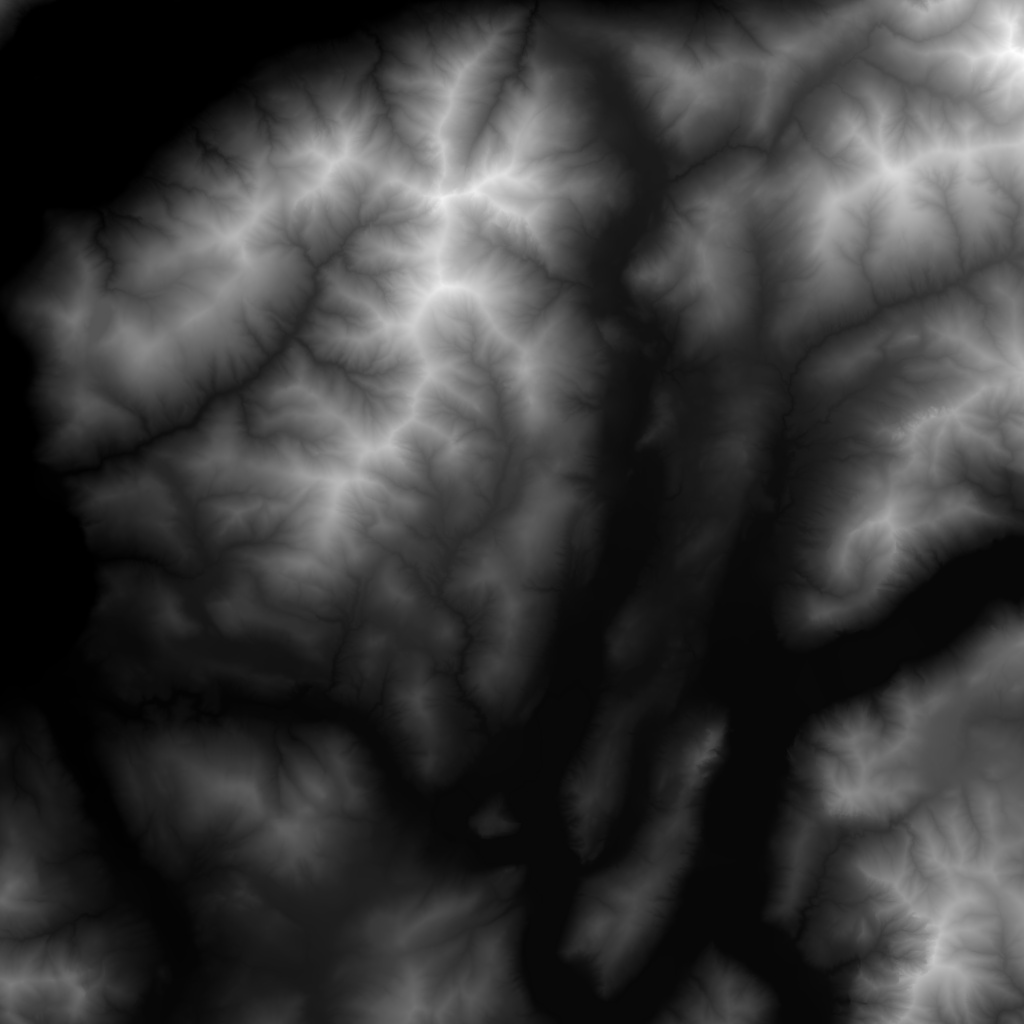
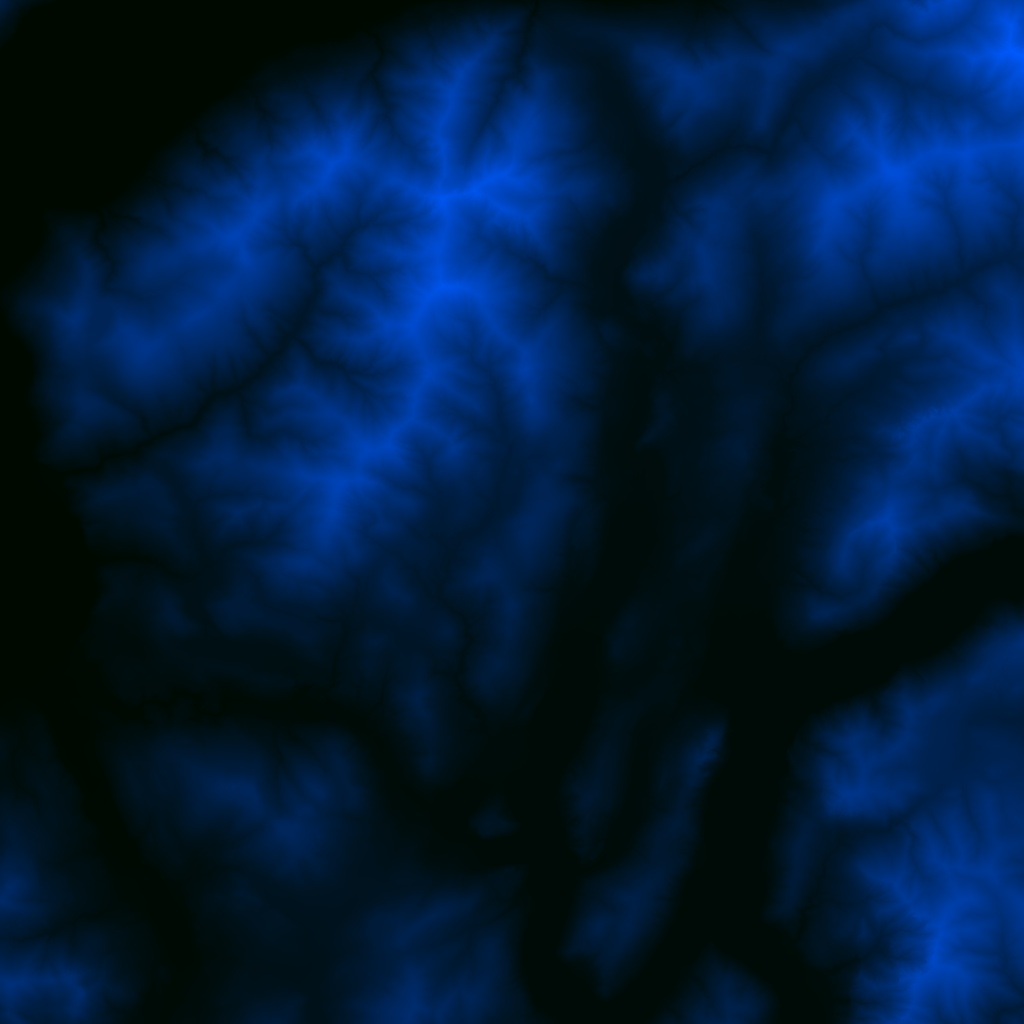
conversion fixed and bonus implemented

diff --git a/assignment_10/assignment 10/assignment 10/template/bonusTemplate.html b/assignment_10/assignment 10/assignment 10/template/bonusTemplate.html
@@ -24,29 +24,43 @@
                     out vec3 v_normal;
                     out float height;
 
+                    float decodeHeight(vec2 encodedValue) {
+                        // Decode the 16-bit value from red and green channels
+                        float red = encodedValue.r * 255.0;
+                        float green = encodedValue.g * 255.0;
+                        return (red + green * 256.0) / 65535.0;
+                    }
+
                     void main() {
                         v_textureCoord = a_position.xz + vec2(0.5);
-                        height = texture(heightmap, v_textureCoord).x;
-                        vec2 level = vec2(20.0)/vec2(textureSize(heightmap, 0));
 
-                        float newY = texture(heightmap, v_textureCoord).y / 3.5;
-                        vec3 position = vec3(a_position.x, newY, a_position.z);
-                        
-                        float x1 = texture(heightmap, v_textureCoord + vec2(level.x, 0.0)).x;
-                        float x2 = texture(heightmap, v_textureCoord - vec2(level.x, 0.0)).x;
-                        float z1 = texture(heightmap, v_textureCoord + vec2(0.0, level.y)).x;
-                        float z2 = texture(heightmap, v_textureCoord - vec2(0.0, level.y)).x;
+                        // Sample the 8-bit 3-channel heightmap
+                        vec3 heightmapSample = texture(heightmap, v_textureCoord).rgb;
 
-                        vec3 tangent = vec3(level.x, 0.0, x1 - x2);
-                        vec3 tanBit = vec3(0.0, level.y, z1 - z2);
+                        // Decode the height from the red and green channels
+                        height = decodeHeight(heightmapSample.rg);
+
+                        vec2 level = vec2(20.0) / vec2(textureSize(heightmap, 0)) * vec2(255.0);
+
+                        float x1 = texture(heightmap, v_textureCoord + vec2(level.x, 0.0)).r * 255.0;
+                        float x2 = texture(heightmap, v_textureCoord - vec2(level.x, 0.0)).r * 255.0;
+                        float z1 = texture(heightmap, v_textureCoord + vec2(0.0, level.y)).r * 255.0;
+                        float z2 = texture(heightmap, v_textureCoord - vec2(0.0, level.y)).r * 255.0;
+
+                        vec3 tangent = vec3(level.x, 0.0, (x1 - x2));
+                        vec3 tanBit = vec3(0.0, level.y, (z1 - z2));
+
                         if (height > 0.055) {
                             v_normal = normalize(cross(tangent, tanBit));
                         } else {
                             v_normal = vec3(0.0, 1.0, 0.0);
                         }
 
+                        vec3 position = vec3(a_position.x, height, a_position.z);
+
                         v_view_direction = -vec3(viewMatrix * modelMatrix * vec4(position, 1.0));
                         v_light_direction = vec3(viewMatrix * vec4(lightDirection, 0.0));
+
                         gl_Position = projectionMatrix * viewMatrix * modelMatrix * vec4(position, 1.0);
                     }`;
 
@@ -379,7 +393,7 @@
 
         // a list of the paths to the files with textures
         // add here the paths to the files from which the textures should be read
-        var textureFiles = ["./terrains/Lugano.png", "./terrains/rock.jpg", "./terrains/sand.jpg", "./terrains/grass.jpg", "./terrains/water.jpg", "./terrains/snow.jpg"];
+        var textureFiles = ["output_image.jpg", "./terrains/rock.jpg", "./terrains/sand.jpg", "./terrains/grass.jpg", "./terrains/water.jpg", "./terrains/snow.jpg"];
 
         // textureVariables should contain the names of uniforms in the shader program
         // IMPORTAN: if you are going to use the code we provide,

diff --git a/assignment_10/assignment 10/assignment 10/template/template.html b/assignment_10/assignment 10/assignment 10/template/template.html
@@ -28,7 +28,7 @@
                         height = texture(heightmap, v_textureCoord).x;
                         vec2 level = vec2(20.0)/vec2(textureSize(heightmap, 0));
 
-                        float newY = texture(heightmap, v_textureCoord).y / 3.5;
+                        float newY = normalize(texture(heightmap, v_textureCoord)).y;
                         vec3 position = vec3(a_position.x, newY, a_position.z);
                         
                         float x1 = texture(heightmap, v_textureCoord + vec2(level.x, 0.0)).x;

diff --git a/assignment_10/assignment 10/assignment 10/template/16to8.py b/assignment_10/assignment 10/assignment 10/template/16to8.py
@@ -3,5 +3,15 @@ import numpy as np
 
 image_16bits = cv2.imread("./terrains/Lugano.png", cv2.IMREAD_UNCHANGED)
 normalized = cv2.normalize(image_16bits, None, 0, 255, cv2.NORM_MINMAX)
-image_8bits = cv2.cvtColor(normalized, cv2.COLOR_GRAY2RGB)
-cv2.imwrite("output_image.jpg", image_8bits)
+
+image_8bits_3channels = np.zeros(
+    (image_16bits.shape[0], image_16bits.shape[1], 3), dtype=np.uint8
+)
+image_8bits_3channels[:, :, 0] = (normalized & 0xFF).astype(np.uint8)
+image_8bits_3channels[:, :, 1] = ((image_16bits >> 8) & 0xFF).astype(np.uint8)
+
+cv2.imwrite("output_image.jpg", image_8bits_3channels)
+
+print("Pixel Values of image_8bits_3channels:")
+print(image_8bits_3channels)
+print(normalized)
